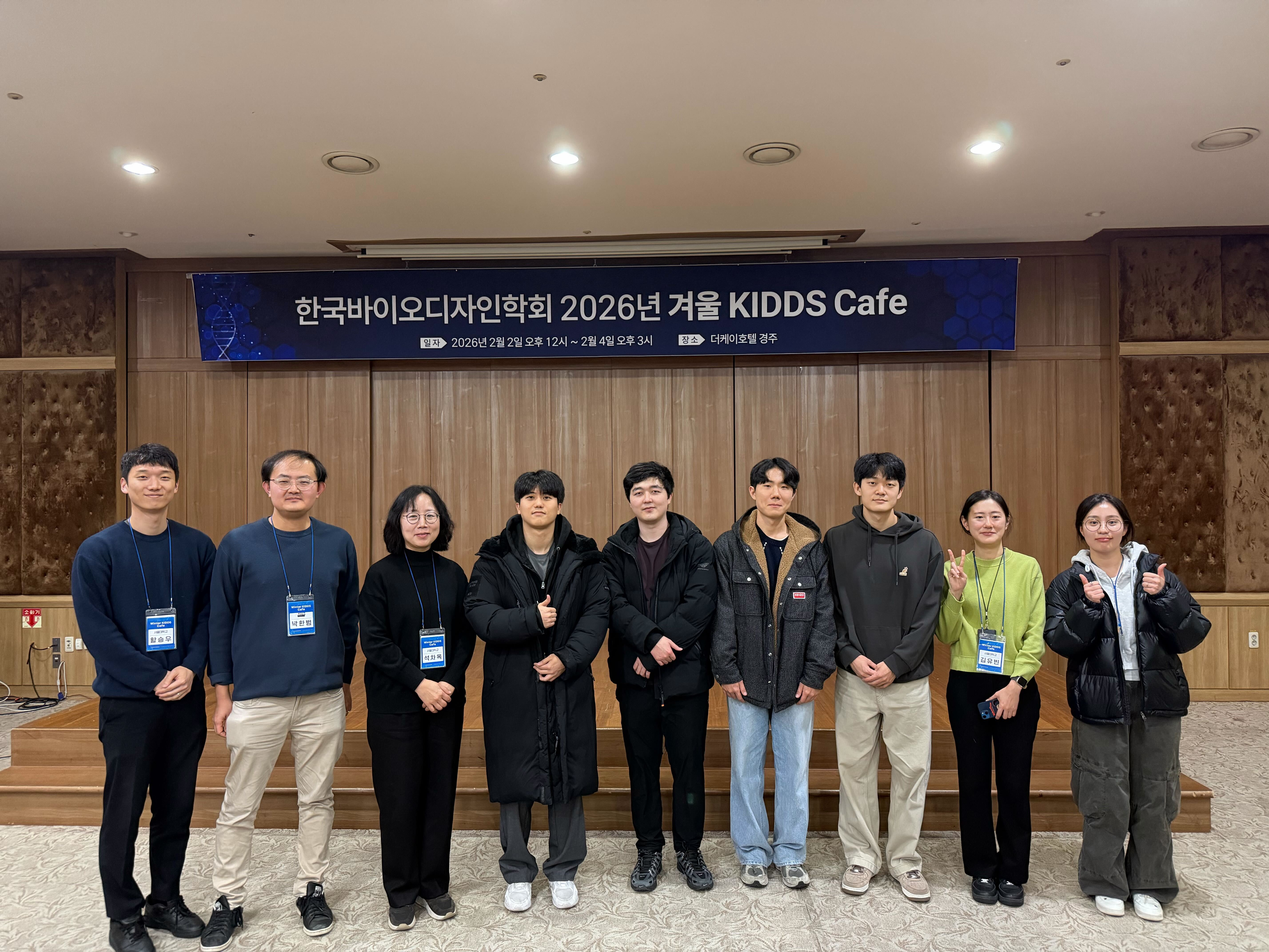
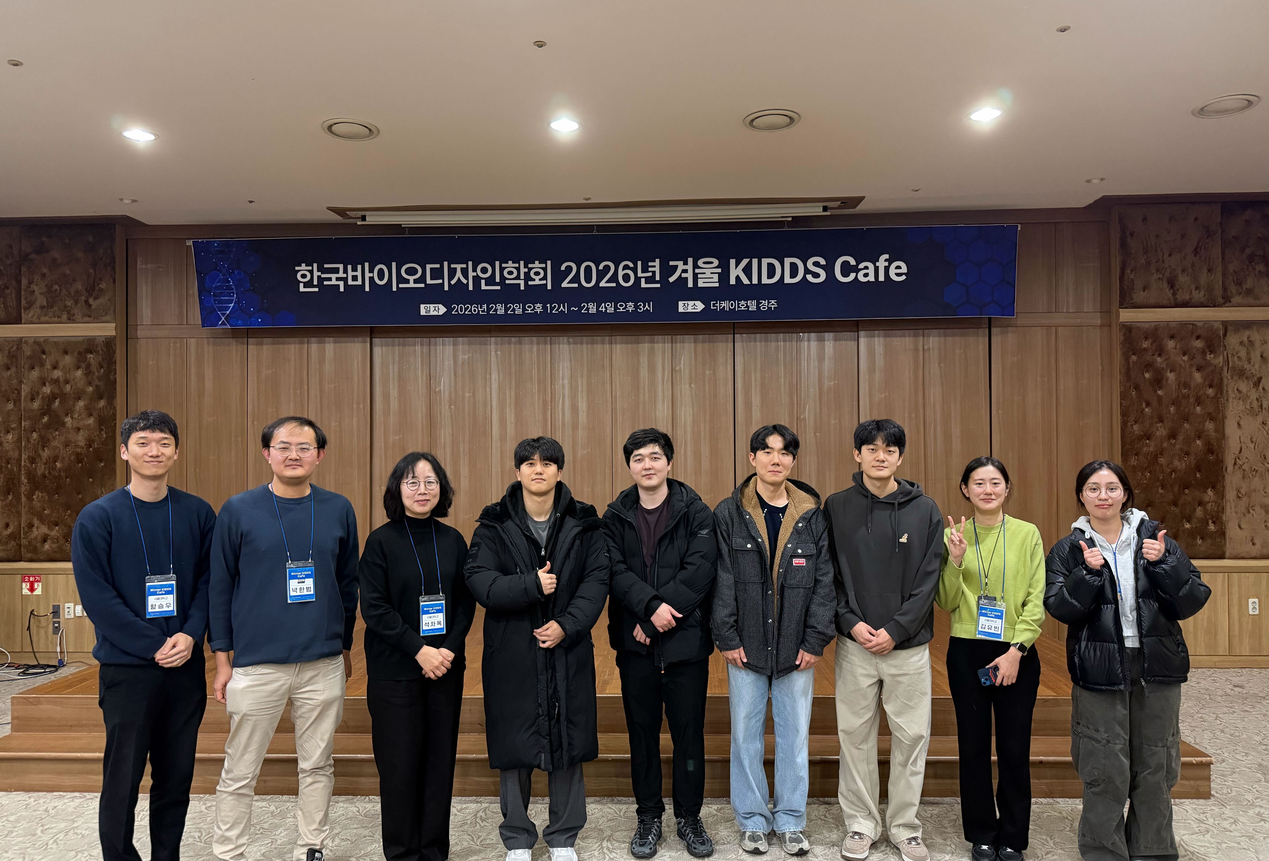
Update archive page styling and photos
- Style title to match main page (uppercase, letter-spacing)
- Capitalize team names (Team 1, Team 3, Team 5)
- Crop organizers photo to match winning team photo aspect ratio
- Update caption to "Top teams and Organizers"

diff --git a/docs/archive-kidds-2026.html b/docs/archive-kidds-2026.html
@@ -94,10 +94,12 @@
             margin-bottom: 0.75rem;
         }
         .winner-title {
-            color: #ffd700;
-            font-size: 1.6rem;
-            font-weight: 600;
-            margin-bottom: 0.5rem;
+            color: #7eb8da;
+            font-size: 1rem;
+            font-weight: 500;
+            letter-spacing: 0.1em;
+            text-transform: uppercase;
+            margin-bottom: 0.75rem;
         }
         .winner-subtitle {
             color: #9ab;
@@ -470,17 +472,17 @@
                 <div class="podium-place second">
                     <div class="medal">🥈</div>
                     <div class="place-label">2nd Place (Tied)</div>
-                    <div class="place-team">team1</div>
+                    <div class="place-team">Team 1</div>
                 </div>
                 <div class="podium-place first">
                     <div class="medal">🥇</div>
                     <div class="place-label">1st Place</div>
-                    <div class="place-team">team3</div>
+                    <div class="place-team">Team 3</div>
                 </div>
                 <div class="podium-place second">
                     <div class="medal">🥈</div>
                     <div class="place-label">2nd Place (Tied)</div>
-                    <div class="place-team">team5</div>
+                    <div class="place-team">Team 5</div>
                 </div>
             </div>
             <div class="winner-photos">
@@ -489,8 +491,8 @@
                     <div class="winner-photo-caption">The winning team</div>
                 </div>
                 <div class="winner-photo">
-                    <img src="winners-organizers.jpg" alt="Winners and Organizers">
-                    <div class="winner-photo-caption">Winners and Organizers</div>
+                    <img src="winners-organizers.jpg" alt="Top teams and Organizers">
+                    <div class="winner-photo-caption">Top teams and Organizers</div>
                 </div>
             </div>
         </div>
